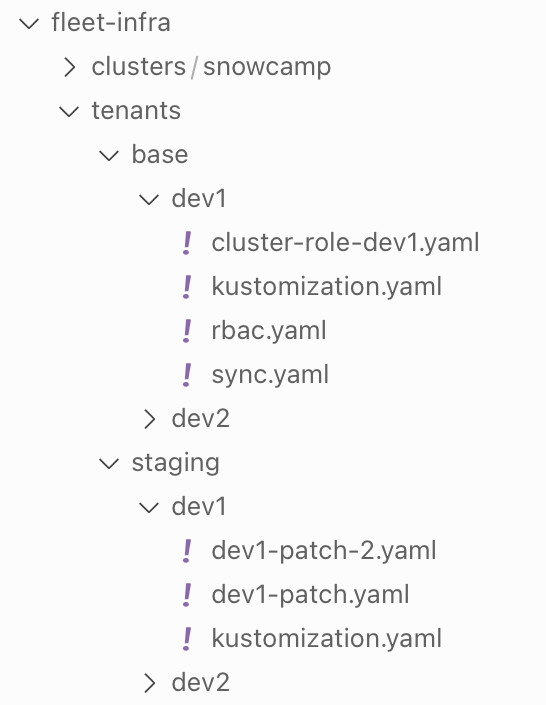
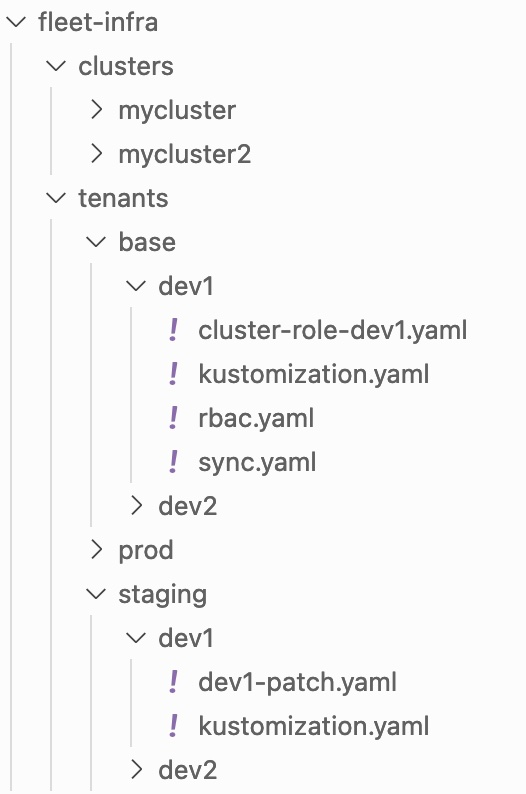
🐛 📝 make the name of the cluster consistent

diff --git a/documentation/flux-multi-tenant.md b/documentation/flux-multi-tenant.md
@@ -14,7 +14,7 @@ export GITHUB_TOKEN="<insert your Github personal token here>"
 export GITHUB_USER="one-kubernetes"
 export GITHUB_REPO="fleet-infra"
 
-flux bootstrap github --owner=${GITHUB_USER} --repository=${GITHUB_REPO} --team=dev1 --team=dev2 --path=clusters/snowcamp
+flux bootstrap github --owner=${GITHUB_USER} --repository=${GITHUB_REPO} --team=dev1 --team=dev2 --path=clusters/mycluster
 ```
 ## Clone your repository
 By default, `flux boostrap` don't create the folder inside your shell, so you must clone the newly created repository from Github
@@ -25,7 +25,7 @@ git clone https://github.com/${GITHUB_USER}/${GITHUB_REPO}
 Now we create the base of the directories that will handle the Flux configuration so that it can manage multiple tenants.
 ```bash
 cd ./fleet-infra
-flux create kustomization tenants --namespace=flux-system --source=GitRepository/flux-system --path ./tenants/staging --prune --interval=3m --export >> clusters/snowcamp/tenants.yaml
+flux create kustomization tenants --namespace=flux-system --source=GitRepository/flux-system --path ./tenants/staging --prune --interval=3m --export >> clusters/mycluster/tenants.yaml
 ```
 > :warning: Remember to commit and push your code each time you make a change so that FluxCD can apply the changes.
 ## Onboard dev1 Kustomize
@@ -172,18 +172,18 @@ EOF
 # Enforce use of Service account for HelmRelease and Kustomization
 ## Download Kyverno distribution
 ```bash
-mkdir -p clusters/snowcamp/kyverno
+mkdir -p clusters/mycluster/kyverno
 ```
 ```bash
-wget https://raw.githubusercontent.com/kyverno/kyverno/v1.5.4/definitions/release/install.yaml -O clusters/snowcamp/kyverno/kyverno-components.yaml
+wget https://raw.githubusercontent.com/kyverno/kyverno/v1.5.4/definitions/release/install.yaml -O clusters/mycluster/kyverno/kyverno-components.yaml
 ```
 > :warning: Remember to commit and push your code each time you make a change so that FluxCD can apply the changes.
 ## Install Kyverno on cluster
 ```bash
-flux create kustomization kyverno --prune true --interval 10m --path ./clusters/snowcamp/kyverno --wait true --source GitRepository/flux-system --export > ./clusters/snowcamp/kyverno/sync.yaml
+flux create kustomization kyverno --prune true --interval 10m --path ./clusters/mycluster/kyverno --wait true --source GitRepository/flux-system --export > ./clusters/mycluster/kyverno/sync.yaml
 ```
 ```bash
-cd ./clusters/snowcamp/kyverno/ && kustomize create --autodetect
+cd ./clusters/mycluster/kyverno/ && kustomize create --autodetect
 ```
 ```bash
 cd -
@@ -191,10 +191,10 @@ cd -
 > :warning: Remember to commit and push your code each time you make a change so that FluxCD can apply the changes.
 ## Add Kyverno policy to enforce use of Service Account
 ```bash
-mkdir -p clusters/snowcamp/kyverno-policies
+mkdir -p clusters/mycluster/kyverno-policies
 ```
 ```bash
-cat << EOF | tee ./clusters/snowcamp/kyverno-policies/enforce-service-account.yaml
+cat << EOF | tee ./clusters/mycluster/kyverno-policies/enforce-service-account.yaml
 ---
 apiVersion: kyverno.io/v1
 kind: ClusterPolicy
@@ -263,10 +263,10 @@ spec:
 EOF
 ```
 ```bash
-flux create kustomization kyverno-policies --prune true --interval 10m --path ./clusters/snowcamp/kyverno-policies --wait true --source GitRepository/flux-system --export > ./clusters/snowcamp/kyverno-policies/sync.yaml
+flux create kustomization kyverno-policies --prune true --interval 10m --path ./clusters/mycluster/kyverno-policies --wait true --source GitRepository/flux-system --export > ./clusters/mycluster/kyverno-policies/sync.yaml
 ```
 ```bash
-cd ./clusters/snowcamp/kyverno-policies/ && kustomize create --autodetect
+cd ./clusters/mycluster/kyverno-policies/ && kustomize create --autodetect
 ```
 ```bash
 cd -
@@ -274,12 +274,12 @@ cd -
 > :warning: Remember to commit and push your code each time you make a change so that FluxCD can apply the changes.
 ## Apply Kyverno policy
 ```bash
-flux create kustomization kyverno-policies --prune true --interval 5m --path ./clusters/snowcamp/kyverno-policies --source GitRepository/flux-system --depends-on kyverno --export > ./clusters/snowcamp/kyverno-policies/sync.yaml
+flux create kustomization kyverno-policies --prune true --interval 5m --path ./clusters/mycluster/kyverno-policies --source GitRepository/flux-system --depends-on kyverno --export > ./clusters/mycluster/kyverno-policies/sync.yaml
 ```
 > :warning: Remember to commit and push your code each time you make a change so that FluxCD can apply the changes.
 ## Add Kyverno dependency for staging tenant
 ```bash
-flux create kustomization tenants --prune true --interval 5m --path ./tenants/staging --source GitRepository/flux-system --depends-on kyverno-policies --export > ./clusters/snowcamp/tenants.yaml
+flux create kustomization tenants --prune true --interval 5m --path ./tenants/staging --source GitRepository/flux-system --depends-on kyverno-policies --export > ./clusters/mycluster/tenants.yaml
 ```
 > :warning: Remember to commit and push your code each time you make a change so that FluxCD can apply the changes.
 ## Fix Kyverno policy
@@ -293,13 +293,13 @@ flux create helmrelease dev2-carapuce --namespace=dev2-ns --service-account=dev2
 # Install monitoring stack
 ## Install Prometheus
 ```bash
-mkdir -p clusters/snowcamp/kube-prometheus-stack
+mkdir -p clusters/mycluster/kube-prometheus-stack
 ```
 ```bash
-flux create source helm prometheus-community --url=https://prometheus-community.github.io/helm-charts --interval=1m --export > clusters/snowcamp/kube-prometheus-stack/sync.yaml
+flux create source helm prometheus-community --url=https://prometheus-community.github.io/helm-charts --interval=1m --export > clusters/mycluster/kube-prometheus-stack/sync.yaml
 ```
 ```bash
-cat << EOF | tee ./clusters/snowcamp/kube-prometheus-stack/values.yaml
+cat << EOF | tee ./clusters/mycluster/kube-prometheus-stack/values.yaml
 alertmanager:
   enabled: false
 grafana:
@@ -314,15 +314,15 @@ prometheus:
 EOF
 ```
 ```bash
-flux create helmrelease kube-prometheus-stack --chart kube-prometheus-stack --source HelmRepository/prometheus-community --chart-version 31.0.0 --crds CreateReplace --export --target-namespace monitoring --create-target-namespace true --values ./clusters/snowcamp/kube-prometheus-stack/values.yaml >> ./clusters/snowcamp/kube-prometheus-stack/sync.yaml
+flux create helmrelease kube-prometheus-stack --chart kube-prometheus-stack --source HelmRepository/prometheus-community --chart-version 31.0.0 --crds CreateReplace --export --target-namespace monitoring --create-target-namespace true --values ./clusters/mycluster/kube-prometheus-stack/values.yaml >> ./clusters/mycluster/kube-prometheus-stack/sync.yaml
 ```
 > :warning: Remember to commit and push your code each time you make a change so that FluxCD can apply the changes.
 ## Install Flux Grafana dashboards
 ```bash
-mkdir -p clusters/snowcamp/kube-prometheus-stack-config
+mkdir -p clusters/mycluster/kube-prometheus-stack-config
 ```
 ```bash
-cat << EOF | tee ./clusters/snowcamp/kube-prometheus-stack-config/podmonitor.yaml
+cat << EOF | tee ./clusters/mycluster/kube-prometheus-stack-config/podmonitor.yaml
 apiVersion: monitoring.coreos.com/v1
 kind: PodMonitor
 metadata:
@@ -350,13 +350,13 @@ spec:
 EOF
 ```
 ```bash
-wget https://raw.githubusercontent.com/fluxcd/flux2/main/manifests/monitoring/grafana/dashboards/cluster.json -P ./clusters/snowcamp/kube-prometheus-stack-config/
+wget https://raw.githubusercontent.com/fluxcd/flux2/main/manifests/monitoring/grafana/dashboards/cluster.json -P ./clusters/mycluster/kube-prometheus-stack-config/
 ```
 ```bash
-wget https://raw.githubusercontent.com/fluxcd/flux2/main/manifests/monitoring/grafana/dashboards/control-plane.json -P ./clusters/snowcamp/kube-prometheus-stack-config/
+wget https://raw.githubusercontent.com/fluxcd/flux2/main/manifests/monitoring/grafana/dashboards/control-plane.json -P ./clusters/mycluster/kube-prometheus-stack-config/
 ```
 ```bash
-cat << EOF | tee ./clusters/snowcamp/kube-prometheus-stack-config/kustomization.yaml
+cat << EOF | tee ./clusters/mycluster/kube-prometheus-stack-config/kustomization.yaml
 apiVersion: kustomize.config.k8s.io/v1beta1
 kind: Kustomization
 namespace: flux-system

diff --git a/docs/slides/installation.md b/docs/slides/installation.md
@@ -64,7 +64,7 @@ $ flux bootstrap github         \
     --repository=${GITHUB_REPO} \
     --team=dev1                 \
     --team=dev2                 \
-    --path=clusters/cloudsud
+    --path=clusters/mycluster
 
 ► connecting to github.com
 ✔ repository "https://github.com/one-kubernetes/fleet-infra" created
@@ -83,7 +83,7 @@ $ flux bootstrap github         \
 ► determining if source secret "flux-system/flux-system" exists
 ► generating source secret
 ✔ public key: ecdsa-sha2-nistp384 AAAAE2VjZHNhLXNoYTItbmlzdHAzODQAAAAIbmlzdHAzODQAAABhBPWKYVtQ6aCxQMMGRt+HqYD/JRC4sSQtdacQNMs+qhoppVH2+kNMnWIEl8LpJO1szfM2/d+gu3O1bg4T+WkEHgmepO1AYDpO8zmR3uMgeRg7IPeZY3E2BgVaKvfdRuDs6g==
-✔ configured deploy key "flux-system-main-flux-system-./clusters/cloudsud" for "https://github.com/one-kubernetes/fleet-infra"
+✔ configured deploy key "flux-system-main-flux-system-./clusters/mycluster" for "https://github.com/one-kubernetes/fleet-infra"
 ► applying source secret "flux-system/flux-system"
 ✔ reconciled source secret
 ► generating sync manifests
@@ -133,7 +133,7 @@ metadata:
   namespace: flux-system
 spec:
   interval: 10m0s
-  path: ./clusters/cloudsud
+  path: ./clusters/mycluster
   prune: true
   sourceRef:
     kind: GitRepository
@@ -182,7 +182,7 @@ $ flux create kustomization tenants    \
     --path ./tenants/staging           \
     --prune                            \
     --interval=3m                      \
-    --export >> clusters/cloudsud/tenants.yaml
+    --export >> clusters/mycluster/tenants.yaml
 ```
 
 ----

diff --git a/documentation/kubernetes-cluster-on-gcloud.md b/documentation/kubernetes-cluster-on-gcloud.md
@@ -18,17 +18,17 @@ Follow the instructions.
 
 #TODO: instructions needed here
 ```bash
-gcloud projects create snowcamp2022-gitops-flux
+gcloud projects create gitops-training-flux
 ```
 
 ## 👉 Provision a Kubernetes cluster
 
 ```bash
 export region='europe-west1-b'
-export name='k8s-staging'
+export name='myk8scluster'
 
 # Setup of the GKE cluster
-gcloud container clusters create --region='europe-west1-b' 'k8s-staging'
+gcloud container clusters create --region='europe-west1-b' 'myk8scluster'
 
 # Once created (the creation could take ~5 min), get the kube configuration to interact with your GKE cluster
 kubectl get nodes

diff --git a/documentation/flux-single-tenant.md b/documentation/flux-single-tenant.md
@@ -16,7 +16,7 @@ export GITHUB_TOKEN="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"
 export GITHUB_USER="one-kubernetes"
 export GITHUB_REPO="flat"
 
-flux bootstrap github --context=k8s-staging --owner=${GITHUB_USER} --repository=${GITHUB_REPO} --personal --branch=main --path=clusters/staging
+flux bootstrap github --context=myk8scluster --owner=${GITHUB_USER} --repository=${GITHUB_REPO} --personal --branch=main --path=clusters/mycluster
 ```
 
 By doing so, `Flux`:

diff --git a/documentation/kubernetes-cluster-on-azure.md b/documentation/kubernetes-cluster-on-azure.md
@@ -20,7 +20,7 @@ Follow the instructions.
 ```bash
 export location='eastus'
 export rg='k8s-lab'
-export aks='k8s-staging'
+export aks='myk8scluster'
 export acr='k8sLabRegistry'
 
 # Create a resource group $rg on a specific location $location (for example eastus) which will contain the Azure services we need 
